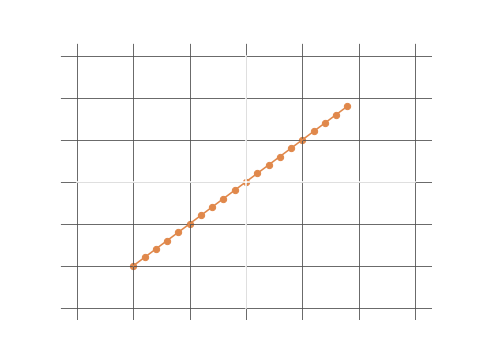
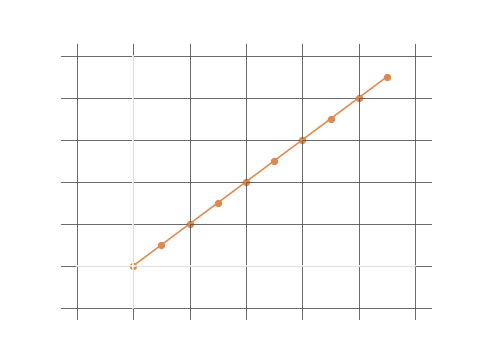
updated content

diff --git a/pages/calculus/the_differential_coefficient.html b/pages/calculus/the_differential_coefficient.html
@@ -81,21 +81,17 @@
 
 						\[m = \frac{y}{x}\]
 
-						In which case, the gradient is represented by a ratio of the change in \(\frac{y}{x}\). Our algebraic reasoning stops here, but our theoretical understanding can extend our conception of gradients a little bit. This theoretical conception that should not be misunderstood, is that our gradient is actually representing change in the function of \(x\), over change in the variable of \(x\). i.e.
+						\[m = \frac{change \ in \ y}{change \ in \ x} \]
 
-						\[y = f(x)\]
-
-						hence,
-
-						\[m = \frac{f(x)}{x}\]
-
-						\[m = \frac{change \ in \ the \ function \ of \ x}{change \ in \ the \ variable \ of \ x} = \frac{change \ in \ y}{change \ in \ x} \]
+						The conception of change, and how it relates to the gradient is very important as it will distunguish some foundational ideas when we look at gradients in relation to curves. For now lets look at a more practical example.
 					</div>
 				</div>
 
 				<div class="slide_box">
 					<div class="slide_text">
-						This conception of change is much easier illustrated with a reflection on a real word problem in mechanics.
+						The graph on the right illustrates uniform motion of an object with respect to time. We can take two points from this graph to solve for the gradient:
+
+						\[(0, 0) \ \ and \ \ (2, 2)\]
 					</div>
 					<div class="slide_img_left">
 						<img src="../../images/uniform_motion.png" alt="uniform motion">

diff --git a/pages/calculus/graph.py b/pages/calculus/graph.py
@@ -1,10 +1,10 @@
 import matplotlib.pyplot as plt
 
-x = list(range(-10, 10, 1))
-y = list(range(-10, 10, 1))
+x = list(range(0, 10, 1))
+y = list(range(0, 10, 1))
 
 origin = [0, 0, 0, 0, 0]
-axis = [-15, -5, 0, 5, 15]
+axis = [-2, 0, 2, 4, 10]
 
 plt.plot(x, y)
 plt.plot(origin, axis, color='black')
